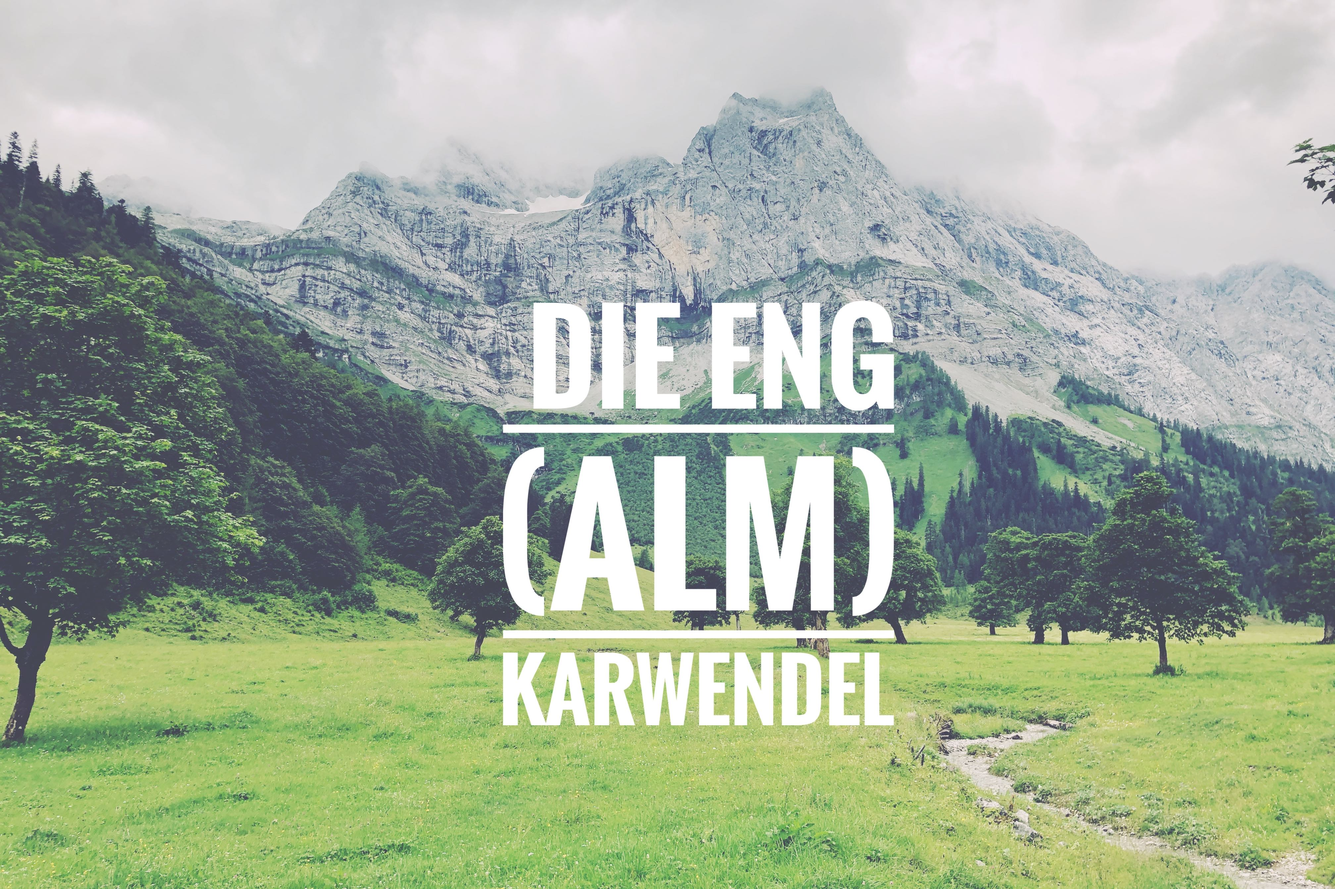
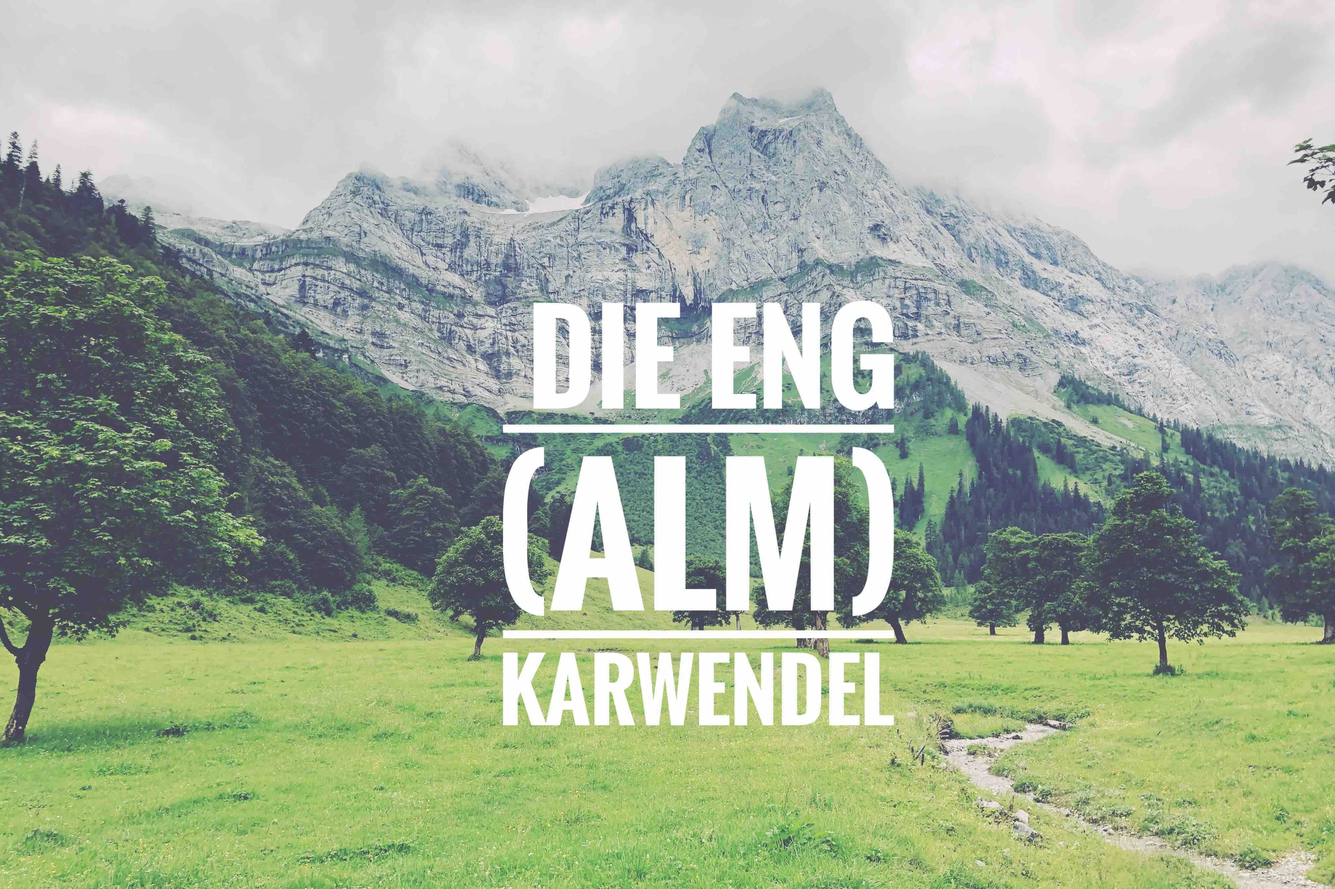
22jul

diff --git a/contact.md b/contact.md
@@ -4,7 +4,7 @@ title: Contact
 permalink: /contact/
 ---
 
-![Clemens-hiking-1](/assets/img/clemes-hiking-1.png)
+![Clemens-hiking-1](/assets/img/clemes-hiking-1.jpg)
 
 Blog Author: Clemens Jarnach
 
